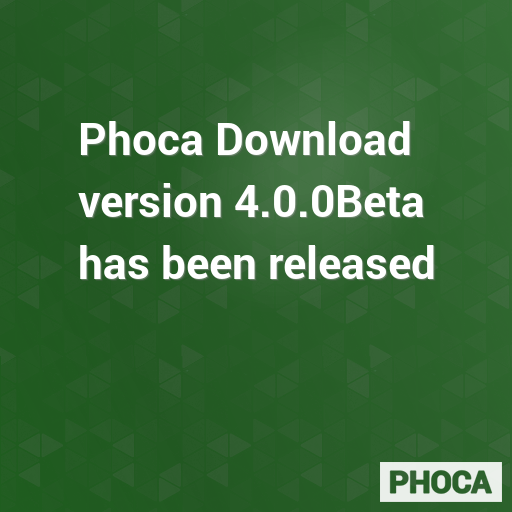
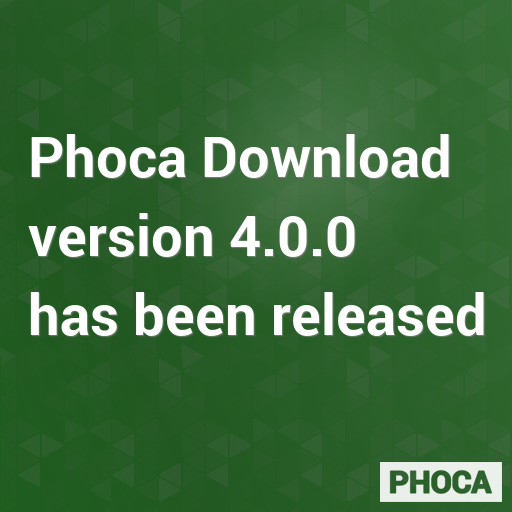
4.0.0 Stable

Changed region(s): [[0.0312, 0.2188, 0.9688, 0.6562]]

diff --git a/media/css/main/phocadownload.css b/media/css/main/phocadownload.css
@@ -994,6 +994,12 @@ animation: ph-lds-ellipsis3 0.6s infinite;
 }
 }
 
+.ph-media-iframe-box {
+	display: flex;
+	align-items: center;
+	justify-content: center;
+}
+
 /* Possible option to have all images in cards of categories view the same height */
 /*
 .card-img-top {

diff --git a/site/views/play/tmpl/default.php b/site/views/play/tmpl/default.php
@@ -21,6 +21,9 @@ if (!empty($this->t['file'][0])) {
 if ($rightDisplay == 1) {
 
 	if ($this->t['html5_play'] == 1 && $this->t['filetype'] != 'flv') {
+
+        // style because of iframe
+        echo '<div style="display: flex;align-items: center;justify-content: center;"class="ph-media-iframe-box">';
 		if ($this->t['filetype'] == 'mp3') {
 			echo '<audio width="'.$this->t['playerwidth'].'" height="'.$this->t['playerheight'].'" style="margin-top: 10px;" controls>';
 			echo '<source src="'.$this->t['playfilewithpath'].'" type="video/mp4">';
@@ -41,13 +44,18 @@ if ($rightDisplay == 1) {
 			echo '<source src="'.$this->t['playfilewithpath'].'" type="video/ogg">';
 			echo Text::_('COM_PHOCADOWNLOAD_BROWSER_DOES_NOT_SUPPORT_AUDIO_VIDEO_TAG');
 			echo '</video>'. "\n";
+		} else if ($this->t['filetype'] == 'webm') {
+			echo '<video width="'.$this->t['playerwidth'].'" height="'.$this->t['playerheight'].'" style="margin-top: 10px;" controls>';
+			echo '<source src="'.$this->t['playfilewithpath'].'" type="video/webm">';
+			echo Text::_('COM_PHOCADOWNLOAD_BROWSER_DOES_NOT_SUPPORT_AUDIO_VIDEO_TAG');
+			echo '</video>'. "\n";
 		}  /*else if ($this->t['filetype'] == 'flv') {
             echo '<video width="'.$this->t['playerwidth'].'" height="'.$this->t['playerheight'].'" style="margin-top: 10px;" controls>';
             echo '<source src="'.$this->t['playfilewithpath'].'" type="video/x-flv">';
             echo Text::_('COM_PHOCADOWNLOAD_BROWSER_DOES_NOT_SUPPORT_AUDIO_VIDEO_TAG');
             echo '</video>'. "\n";
         }*/
-
+        echo '</div>';
 
 	} else {
 

diff --git a/admin/libraries/phocadownload/file/file.php b/admin/libraries/phocadownload/file/file.php
@@ -146,6 +146,7 @@ class PhocaDownloadFile
 			case 'mp4':
 			case 'mpeg':
 			case 'ogv':
+			case 'webm':
 				$icon = 'video';
 			break;
 
@@ -384,6 +385,7 @@ class PhocaDownloadFile
 				//case 'flv':
 				case 'ogg':
 				case 'ogv':
+				case 'webm':
 					return true;
 				break;
 

diff --git a/admin/libraries/phocadownload/log/log.php b/admin/libraries/phocadownload/log/log.php
@@ -47,7 +47,7 @@ class PhocaDownloadLog
 		$data['userid']			= (int)$user->id;
 		$data['ip']	=			$_SERVER["REMOTE_ADDR"];
 		$data['page']			= $uri->toString();
-
+		$data['params']			= '';
 
 		if (!$row->bind($data)) {
 			throw new Exception($row->getError());

diff --git a/README.MD b/README.MD
@@ -96,7 +96,7 @@ Phoca Download is download manager for Joomla! CMS. It includes component, modul
 
 ## Version (Joomla! 4.x)
 
-4.0.0Beta
+4.0.0
 
 
 
